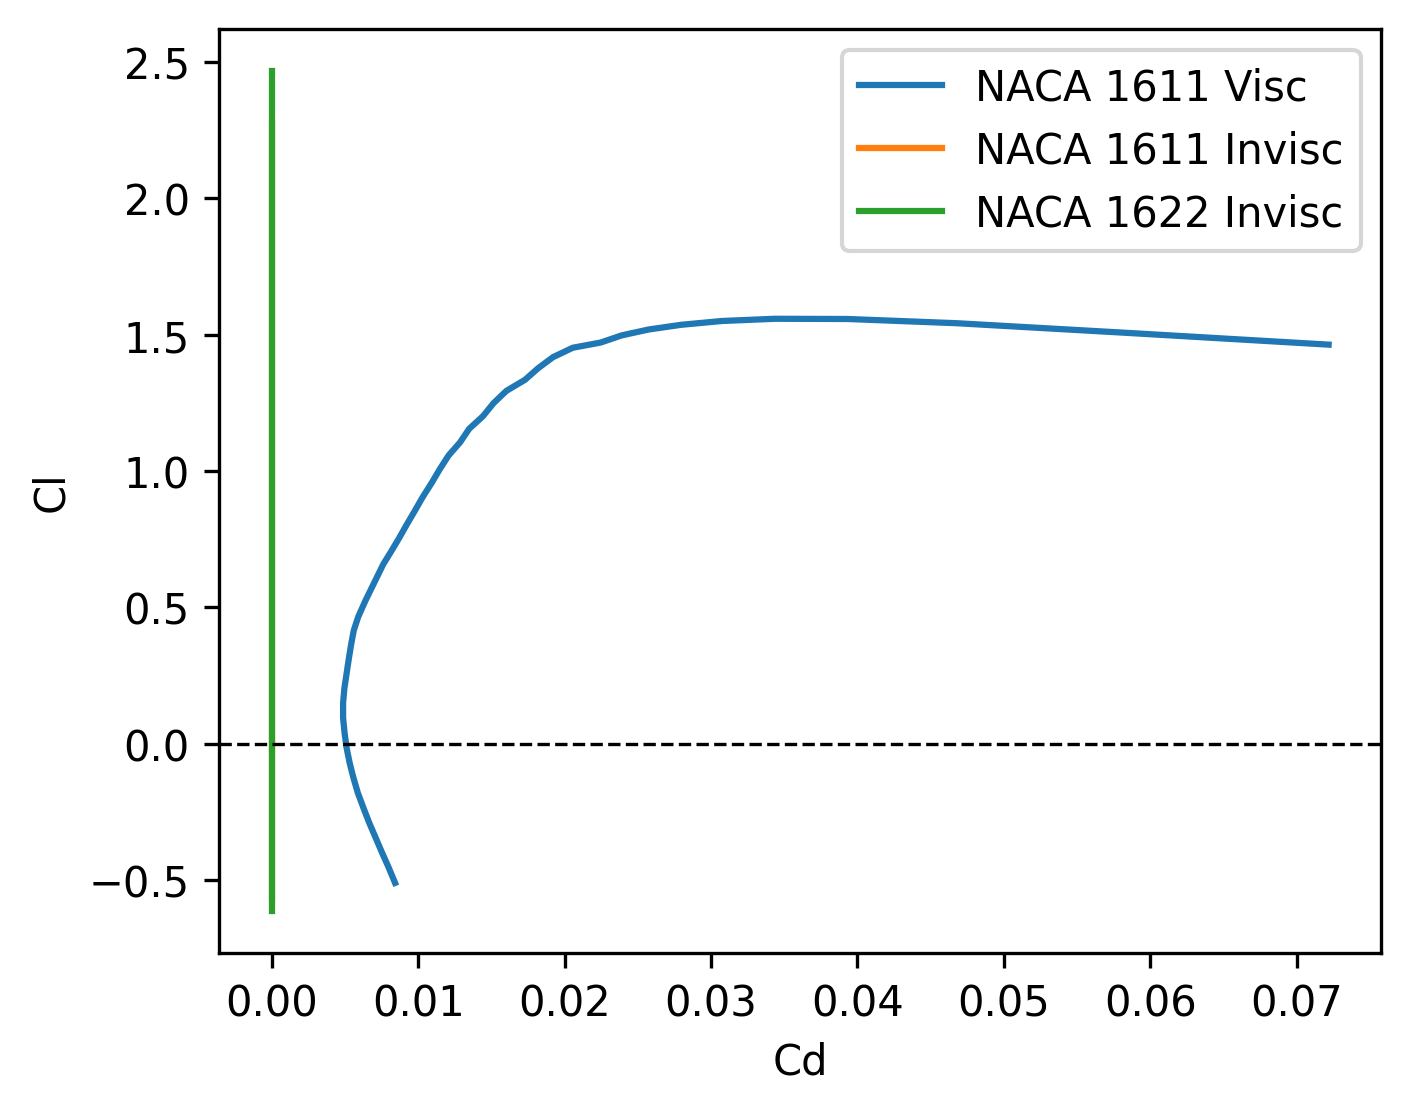
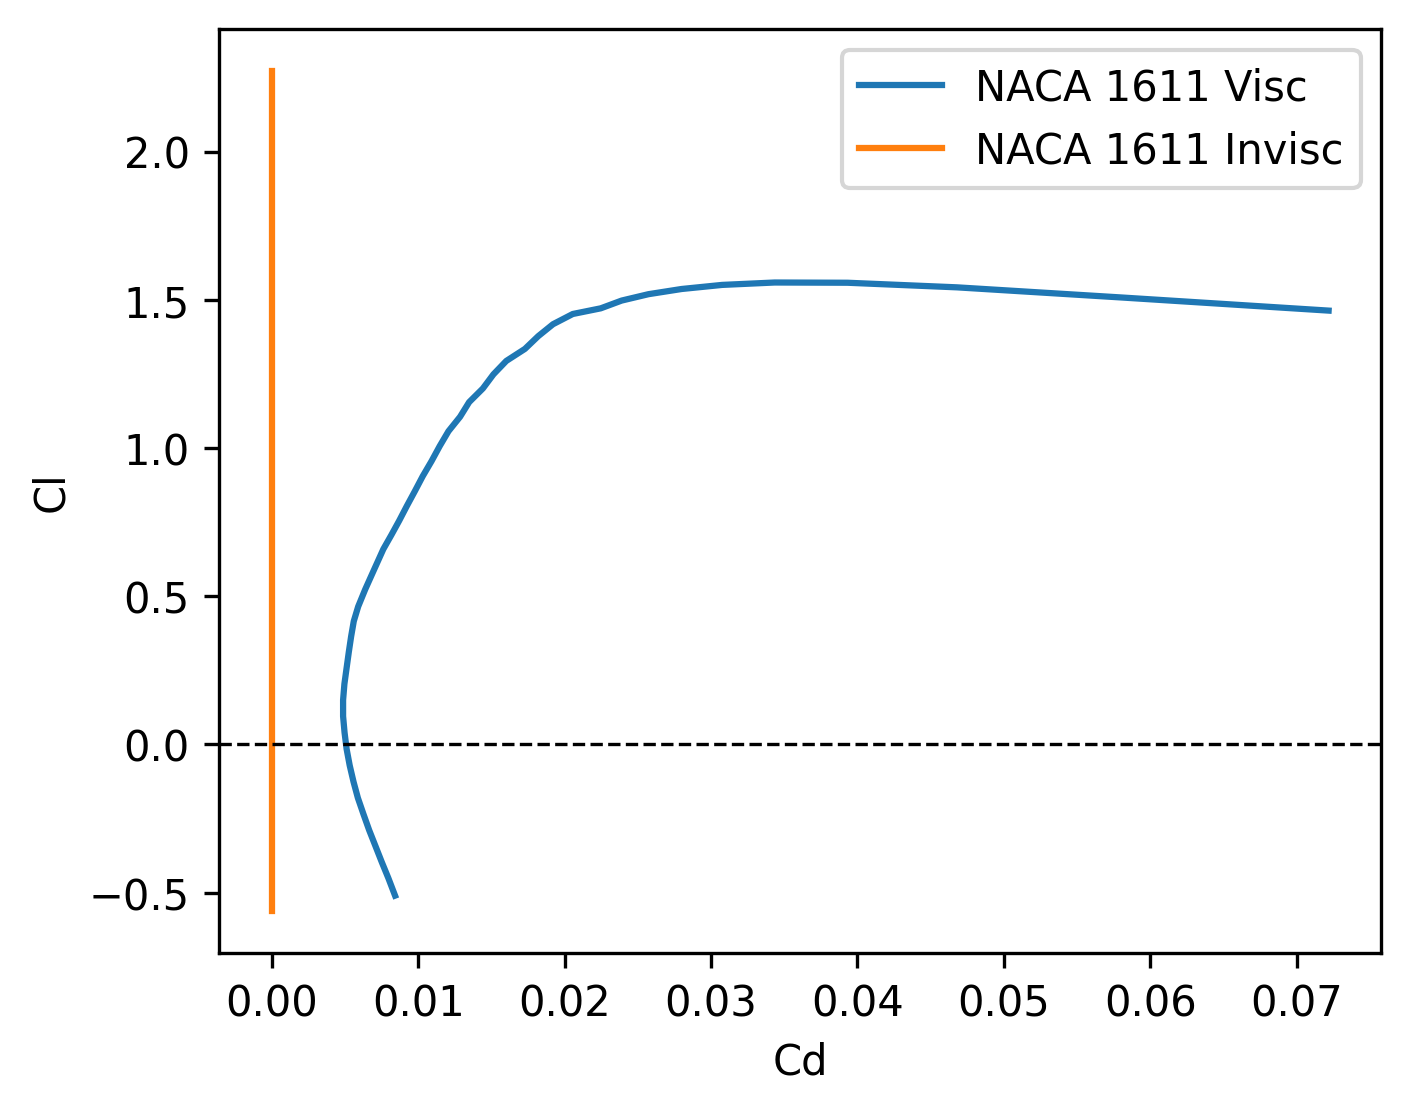
yes more

diff --git a/post_plot_pol.py b/post_plot_pol.py
@@ -6,12 +6,12 @@ import os
 #inputs = ["pol_1611_inv.txt", "pol_1622_inv.txt"]
 #inputs = ["pol_1611_N10_inv.txt", "pol_1611_N50_inv.txt", "pol_1611_N250_inv.txt"]
 #inputs = ["pol_1611_inv.txt", "pol_0011_inv.txt"]
-inputs = ["pol_1611_Re1.5e6.txt", "pol_1611_inv.txt", "pol_1622_inv.txt"]
+inputs = ["pol_1611_Re1.5e6.txt", "pol_1611_inv.txt"]
 
 #labels_to_use = ["NACA1611", "NACA1622"]
 #labels_to_use = ["N = 10", "N = 50", "N = 250"]
 #labels_to_use = ["NACA1611", "NACA0011"]
-labels_to_use = ["NACA 1611 Visc", "NACA 1611 Invisc", "NACA 1622 Invisc"]
+labels_to_use = ["NACA 1611 Visc", "NACA 1611 Invisc"]
 
 path_i = os.path.join(os.path.dirname(os.path.abspath(__file__)), "Inviscid_flows")
 path_v = os.path.join(os.path.dirname(os.path.abspath(__file__)), "Viscous_flows")
